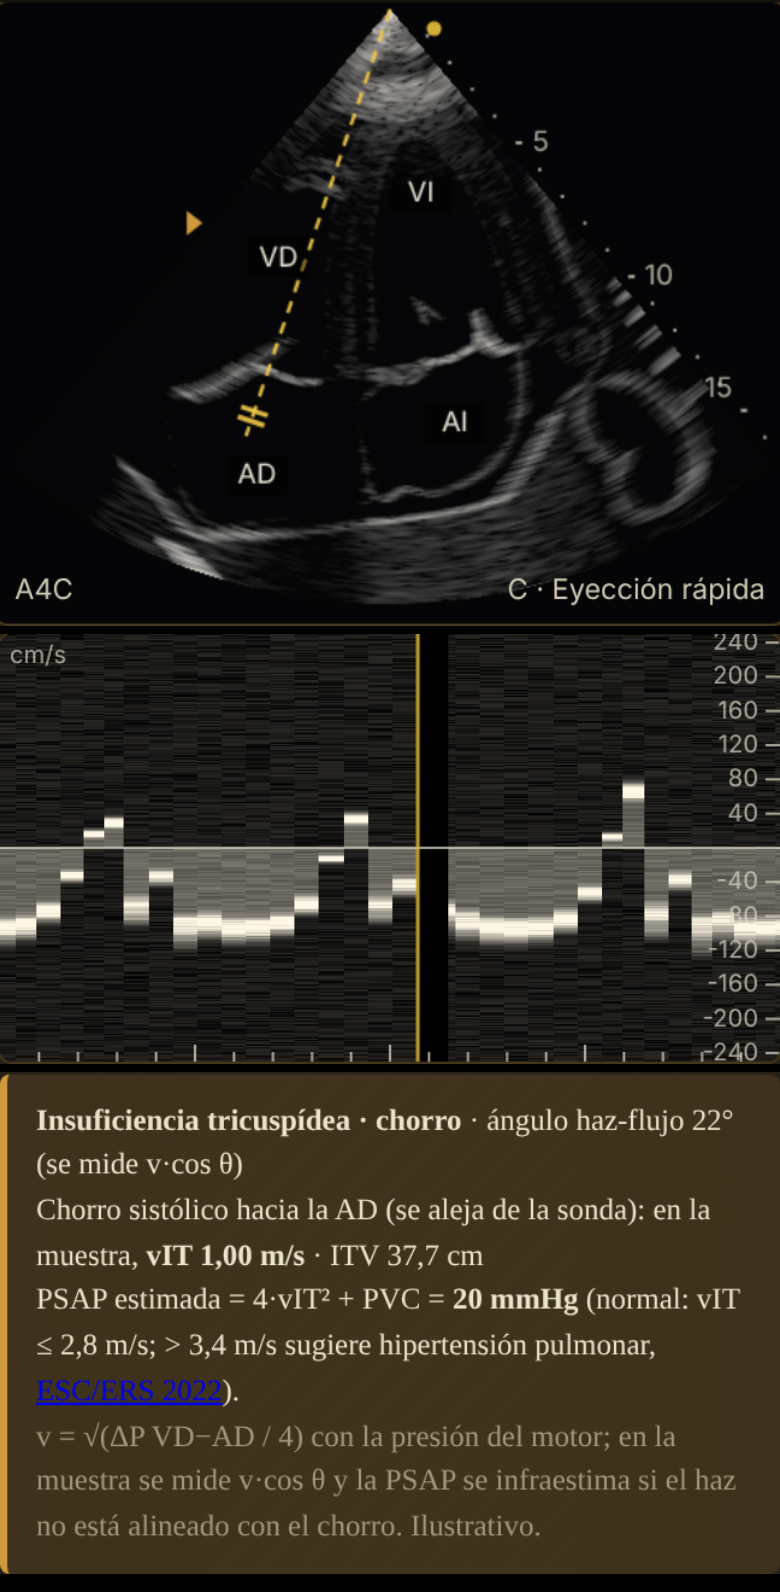
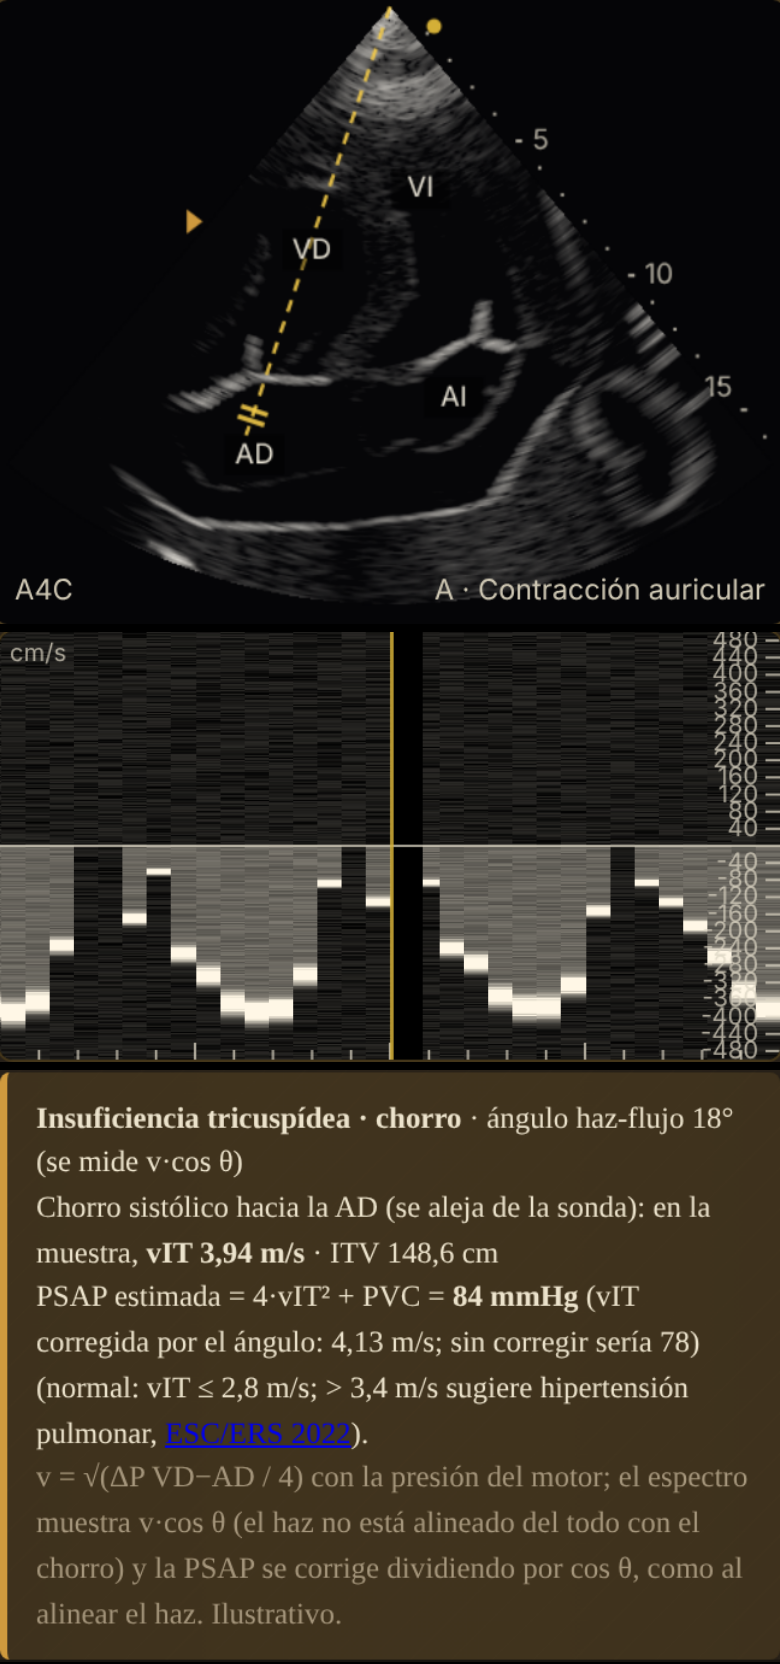
Eco P5f2: la IT en CW lee el máximo del chorro (vena contracta) por cos θ, escala ±500 cm/s y PSAP corregida por el ángulo

Changed region(s): [[0.0, 0.0, 1.0, 1.0], [0.2154, 0.1231, 0.2769, 0.1539], [0.4923, 0.1231, 0.5231, 0.1539]]

diff --git a/js/modules/eco/eco.html b/js/modules/eco/eco.html
@@ -388,6 +388,7 @@
                         <option value="100">±100 cm/s</option>
                         <option value="150" selected>±150 cm/s</option>
                         <option value="250">±250 cm/s</option>
+                        <option value="500">±500 cm/s</option>
                     </select>
                 </div>
                 <p class="cv-muted" id="cv-d-guia">Toca la imagen para poner el volumen de muestra (o elige dónde arriba). Arriba de la línea de base, flujo hacia la sonda; abajo, alejándose.</p>

diff --git a/autonomo/bloques/mv-eco/capturas-realismo/mov/cifras-mov-doppler-parcial.md b/autonomo/bloques/mv-eco/capturas-realismo/mov/cifras-mov-doppler-parcial.md
@@ -1,0 +1,11 @@
+# Cifras de la app en cada captura de movimiento y Doppler (dibujo 2, 390 px)
+Origen: «monitor» = texto que enseña la app (#cv-l-vi, #cv-d-resultado, #cv-m-resultado, #cv-l-lat); «derivado» = cuenta sobre cifras del monitor; «anatomia.mjs» = tapseDeLatido(motor.ultimo) porque la app solo lo enseña al poner calibres.
+
+## d-it-cw-tep (tep, g=1, preajuste regtricus)
+- Resultado del Doppler: Insuficiencia tricuspídea · chorro · ángulo haz-flujo 17° (se mide v·cos θ) Chorro sistólico hacia la AD (se aleja de la sonda): en la muestra, vIT 2,48 m/s · ITV 66,1 cm PSAP estimada = 4·vIT² + PVC = 36 mmHg (vIT corregida por el ángulo: 2,59 m/s; sin corregir sería 34) (normal: vIT ≤ 2,8 m/s; > 3,4 m/s sugiere hipertensión pulmonar, ESC/ERS 2022). v = √(ΔP VD−AD / 4) con la presión del motor; el espectro muestra v·cos θ (el haz no está alineado del todo con el chorro) y la PSAP se corrige dividiendo por cos θ, como al alinear el haz. Ilustrativo.  _[monitor]_
+- Medidas internas (E, A, E/A, TDE/DT, pico, ITV): {"tipo":"regurgitacion","pico":247.59,"itv":66.11,"vIT":2.48,"psap":34.12}  _[monitor interno de la app (__eco.doppler.medidas); e′ no la da hoy]_
+- Último latido: PA 65/53 (PAM 59) · FC 118 · GC 2.3 L/min · PVC 10  _[monitor]_
+- TAPSE: 6.8 mm  _[anatomia.mjs]_
+
+## Errores de consola
+ninguno
